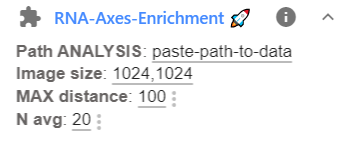
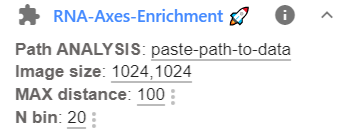
Replace running average with a binning.

diff --git a/imjoy-plugins/RNA-Axes-Enrichment.imjoy.html b/imjoy-plugins/RNA-Axes-Enrichment.imjoy.html
@@ -6,14 +6,14 @@
 {
   "name": "RNA-Axes-Enrichment",
   "type": "native-python",
-  "version": "0.0.1",
+  "version": "0.0.2",
   "description": "Calculate expression levels around annotated axes.",
   "tags": "",
   "ui": [
         "<span style='font-weight: 550; color:#666362'>Path ANALYSIS</span>: {id: 'path_base', type: 'string', placeholder: 'paste-path-to-data'}",
         "<span style='font-weight: 550; color:#666362'>Image size</span>: {id: 'image_size', type: 'string', placeholder: '1024,1024'}",
         "<span style='font-weight: 550; color:#666362'>MAX distance</span>: {id: 'dist_max', type: 'number', placeholder: 100}",
-        "<span style='font-weight: 550; color:#666362'>N avg</span>: {id: 'n_avg', type: 'number', placeholder: 20}"
+        "<span style='font-weight: 550; color:#666362'>N bin</span>: {id: 'bin_step', type: 'number', placeholder: 20}"
         ],
   "cover": "",
   "inputs": null,
@@ -63,7 +63,7 @@ class ImJoyPlugin():
         path_base_str = ctx.config.path_base
         image_size_str = ctx.config.image_size
         dist_max = ctx.config.dist_max
-        n_avg = ctx.config.n_avg
+        bin_step = ctx.config.bin_step
 
         # Path containing data, and to save results
         if path_base_str == 'paste-path-to-data':
@@ -193,14 +193,28 @@ class ImJoyPlugin():
                 df_spots['n_rna'] = counters
 
                 # >> Merge the data frames & save
-                new_df = pd.merge(df_line, df_spots,  how='left', left_on=['ax1','ax2'], right_on = ['ax1','ax2'])
-                new_df["n_rna"] = new_df["n_rna"].fillna(0)
-                new_df['n_rna_movavg'] = new_df["n_rna"].rolling(window=n_avg).mean()
-
-                name_save = Path(str(name_json_full).replace('.json','__axes_enrich.csv'), index=False)
-
+                df_results = pd.merge(df_line, df_spots,  how='left', left_on=['ax1','ax2'], right_on = ['ax1','ax2'])
+                df_results["n_rna"] = df_results["n_rna"].fillna(0)
+ 
                 name_save = path_save / name_spots.replace('__spots.csv','__axes_enrich.csv')
-                new_df.to_csv(name_save, index=False)
+                df_results.to_csv(name_save, index=False)
+
+                # >>>> Binning of data
+                bins_neg = np.sort(-np.arange(bin_step, -dist_orig.min() , bin_step, dtype='int16'))
+                bins_pos = np.arange(0, dist_orig.max(), bin_step, dtype='int16')
+                dist_bin = np.concatenate((bins_neg, bins_pos), axis=0)
+
+                # Determine to which bin data-points belong
+                digitized = np.digitize(df_results['dist_orig'], dist_bin)
+
+                # Sum RNA counts for each bin
+                n_rna_bin = [df_results['n_rna'][digitized == i].sum() for i in range(1, len(dist_bin))]
+
+                df_bin = pd.DataFrame({'dist_bin': dist_bin[0:-1],
+                                    'n_rna_bin': n_rna_bin})
+
+                name_save = path_save / name_spots.replace('__spots.csv','__axes_enrich__binned.csv')
+                df_bin.to_csv(name_save, index=False)
 
                 # >>>  Plot results
 
@@ -225,8 +239,8 @@ class ImJoyPlugin():
                 ax[1][0].set_ylabel('Frequency')
                 ax[1][0].set_xlabel('Distance [pix]')
 
-                sns.lineplot(x="dist_orig", y="n_rna", data=new_df,ax=ax[1][1])
-                sns.lineplot(x="dist_orig", y="n_rna_movavg", data=new_df,ax=ax[1][1])
+                sns.lineplot(x="dist_orig", y="n_rna", data=df_results,ax=ax[1][1])
+                sns.lineplot(x="dist_bin", y="n_rna_bin", data=df_bin)
 
                 plt.tight_layout()
 
